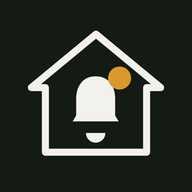
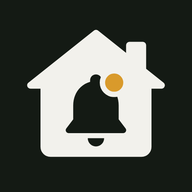
Brand: revised mark, lowercase wordmark, new tagline
Replaces the whole set with exports 6 — house gains a chimney, the bell is
redrawn with a crown, and the gold dot moves onto the bell's shoulder.

THE NAV DROPS THE CHIP. Last set's light mark was #f0e2c4 on the #faf8f4
page — 1.21:1, invisible — which is the only reason a dark chip existed
there. This set inverts it: the light mark is a DARK house, measuring
16.67:1 on the same page. The workaround is no longer needed, so the nav now
uses logo-mark.svg exactly as delivered, and the delivered light/dark system
does the job it was designed for: light mark on the cream page, dark mark on
the near-black icon chip. web/logo-mark-chip.svg is deleted.

The chip survives only where a surface has no background of its own: the
favicon (a #141a14 house on transparent measures 1.10:1 against a dark-mode
tab strip — invisible in the theme most people browse in) and the app icons
(iOS composites transparency onto black). Those are built from the DARK
mark because their ground is dark; that is the system working, not an
inconsistency with the nav.

WORDMARK + TAGLINE, both changed by the designer and both propagated to all
12 static pages, the ZIP-page template and the research-page template:
  "Should I Sell Yet"          -> "Should I sell yet?" with the ? in #b5591e
  "HOME EQUITY EARLY WARNING"  -> "LOCAL HOUSING MARKET SIGNALS"
The new tagline is also a better fit for what the product now is, given the
Research index ships local market signals rather than equity warnings.
[…]

Changed region(s): [[0.125, 0.1562, 0.875, 0.8438], [0.3438, 0.25, 0.375, 0.2812]]

diff --git a/web/admin.html b/web/admin.html
@@ -108,7 +108,7 @@ table.grid tr:hover td{background:#faf9f5}
 <!-- ——— Sign in ——— -->
 <div id="login">
   <div class="card">
-    <img src="/logo-mark-chip.svg" alt="" width="34" height="34" style="display:block;margin-bottom:14px">
+    <img src="/logo-mark.svg" alt="" width="34" height="34" style="display:block;margin-bottom:14px">
     <h1>Operator sign-in</h1>
     <p>Enter the admin email. You'll get a sign-in link — or a 6-digit code if your email template includes one.</p>
     <div id="step-email">
@@ -151,7 +151,7 @@ table.grid tr:hover td{background:#faf9f5}
 <div id="app">
   <aside>
     <div class="brand">
-      <img src="/logo-mark-chip.svg" alt="" width="26" height="26" style="display:block">
+      <img src="/logo-mark.svg" alt="" width="26" height="26" style="display:block">
       <b>Operator</b>
     </div>
     <nav class="side" id="nav">

diff --git a/web/subscribe.html b/web/subscribe.html
@@ -87,7 +87,7 @@ h1{font-family:'Newsreader',serif;font-weight:500;font-size:38px;line-height:1.1
 <body>
 <nav>
   <a class="logo" href="index.html" style="text-decoration:none">
-    <img src="/logo-mark-chip.svg" alt="" width="30" height="30" style="display:block"><span class="logo-text"><span class="logo-word">Should I Sell Yet</span><span class="logo-tag">HOME EQUITY EARLY WARNING</span></span>
+    <img src="/logo-mark.svg" alt="" width="30" height="30" style="display:block"><span class="logo-text"><span class="logo-word">Should I sell yet<span style="color:#b5591e">?</span></span><span class="logo-tag">LOCAL HOUSING MARKET SIGNALS</span></span>
   </a>
   <span class="mono" style="font-size:10.5px;letter-spacing:.14em;color:var(--gold)">CHECKOUT</span>
 </nav>

diff --git a/web/report.html b/web/report.html
@@ -248,7 +248,7 @@ details.how .how-body b{color:#3a4450}
 <body>
 <nav>
   <a class="logo" href="index.html" style="text-decoration:none">
-    <img src="/logo-mark-chip.svg" alt="" width="30" height="30" style="display:block"><span class="logo-text"><span class="logo-word">Should I Sell Yet</span><span class="logo-tag">HOME EQUITY EARLY WARNING</span></span>
+    <img src="/logo-mark.svg" alt="" width="30" height="30" style="display:block"><span class="logo-text"><span class="logo-word">Should I sell yet<span style="color:#b5591e">?</span></span><span class="logo-tag">LOCAL HOUSING MARKET SIGNALS</span></span>
   </a>
   <span class="mono" style="font-size:10.5px;letter-spacing:.14em;color:var(--gold)">SAMPLE REPORT</span>
 </nav>

diff --git a/web/my-report.html b/web/my-report.html
@@ -233,7 +233,7 @@ details.how .how-body b{color:#3a4450}
 <body>
 <nav>
   <a class="logo" href="index.html">
-    <img src="/logo-mark-chip.svg" alt="" width="30" height="30" style="display:block"><span class="logo-text"><span class="logo-word">Should I Sell Yet</span><span class="logo-tag">HOME EQUITY EARLY WARNING</span></span>
+    <img src="/logo-mark.svg" alt="" width="30" height="30" style="display:block"><span class="logo-text"><span class="logo-word">Should I sell yet<span style="color:#b5591e">?</span></span><span class="logo-tag">LOCAL HOUSING MARKET SIGNALS</span></span>
   </a>
   <span class="mono" style="font-size:10.5px;letter-spacing:.14em;color:var(--gold)">MYMARKETCHECKUP PROPERTY REPORT</span>
 </nav>

diff --git a/web/press.html b/web/press.html
@@ -69,7 +69,7 @@ footer a{color:var(--faint-ink)}
 </head>
 <body>
 <nav class="top">
-  <a class="logo" href="/"><img src="/logo-mark-chip.svg" alt="" width="30" height="30" style="display:block"><span class="logo-text"><span class="logo-word">Should I Sell Yet</span><span class="logo-tag">HOME EQUITY EARLY WARNING</span></span></a>
+  <a class="logo" href="/"><img src="/logo-mark.svg" alt="" width="30" height="30" style="display:block"><span class="logo-text"><span class="logo-word">Should I sell yet<span style="color:#b5591e">?</span></span><span class="logo-tag">LOCAL HOUSING MARKET SIGNALS</span></span></a>
   <span class="mono" style="font-size:.6875rem;letter-spacing:.14em;color:var(--gold)">PRESS</span>
 </nav>
 

diff --git a/web/success.html b/web/success.html
@@ -74,7 +74,7 @@ b{color:var(--ink)}
 <body>
 <nav>
   <a class="logo" href="/">
-    <img src="/logo-mark-chip.svg" alt="" width="30" height="30" style="display:block"><span class="logo-text"><span class="logo-word">Should I Sell Yet</span><span class="logo-tag">HOME EQUITY EARLY WARNING</span></span>
+    <img src="/logo-mark.svg" alt="" width="30" height="30" style="display:block"><span class="logo-text"><span class="logo-word">Should I sell yet<span style="color:#b5591e">?</span></span><span class="logo-tag">LOCAL HOUSING MARKET SIGNALS</span></span>
   </a>
   <span class="mono" style="font-size:10.5px;letter-spacing:.14em;color:var(--gold)">CHECKOUT</span>
 </nav>

diff --git a/web/index.html b/web/index.html
@@ -318,10 +318,10 @@ footer{padding:36px 56px 44px;border-top:1px solid var(--hairline)}
 <div class="wrap">
 <nav>
   <div class="logo">
-    <img src="/logo-mark-chip.svg" alt="" width="34" height="34" style="display:block">
+    <img src="/logo-mark.svg" alt="" width="34" height="34" style="display:block">
     <span class="logo-text">
-      <span class="logo-word">Should I Sell Yet</span>
-      <span class="logo-tag">HOME EQUITY EARLY WARNING</span>
+      <span class="logo-word">Should I sell yet<span style="color:#b5591e">?</span></span>
+      <span class="logo-tag">LOCAL HOUSING MARKET SIGNALS</span>
     </span>
   </div>
   <div class="navlinks">

diff --git a/pipeline/build_research.py b/pipeline/build_research.py
@@ -506,7 +506,7 @@ footer{{border-top:1px solid var(--hairline);margin-top:46px;padding-top:18px;fo
 .stategrid{{display:grid;grid-template-columns:repeat(auto-fill,minmax(250px,1fr));gap:10px}}
 </style></head><body>
 <nav>
-  <a class="logo" href="/"><img src="/logo-mark-chip.svg" alt="" width="30" height="30" style="display:block"><span class="logo-text"><span class="logo-word">Should I Sell Yet</span><span class="logo-tag">HOME EQUITY EARLY WARNING</span></span></a>
+  <a class="logo" href="/"><img src="/logo-mark.svg" alt="" width="30" height="30" style="display:block"><span class="logo-text"><span class="logo-word">Should I sell yet<span style="color:#b5591e">?</span></span><span class="logo-tag">LOCAL HOUSING MARKET SIGNALS</span></span></a>
   <a class="mono" style="font-size:11px;letter-spacing:.14em;color:var(--gold);text-decoration:none" href="/research/">RESEARCH</a>
 </nav>
 <div class="wrap">

diff --git a/pipeline/build_pages.py b/pipeline/build_pages.py
@@ -228,7 +228,7 @@ footer a{color:var(--faint-ink)}
 """
 
 NAVBAR = """<nav class="top">
-  <a class="logo" href="/"><img src="/logo-mark-chip.svg" alt="" width="30" height="30" style="display:block"><span class="logo-text"><span class="logo-word">Should I Sell Yet</span><span class="logo-tag">HOME EQUITY EARLY WARNING</span></span></a>
+  <a class="logo" href="/"><img src="/logo-mark.svg" alt="" width="30" height="30" style="display:block"><span class="logo-text"><span class="logo-word">Should I sell yet<span style="color:#b5591e">?</span></span><span class="logo-tag">LOCAL HOUSING MARKET SIGNALS</span></span></a>
   <a href="/#check" style="font-size:.875rem">Check any ZIP free →</a>
 </nav>"""
 
